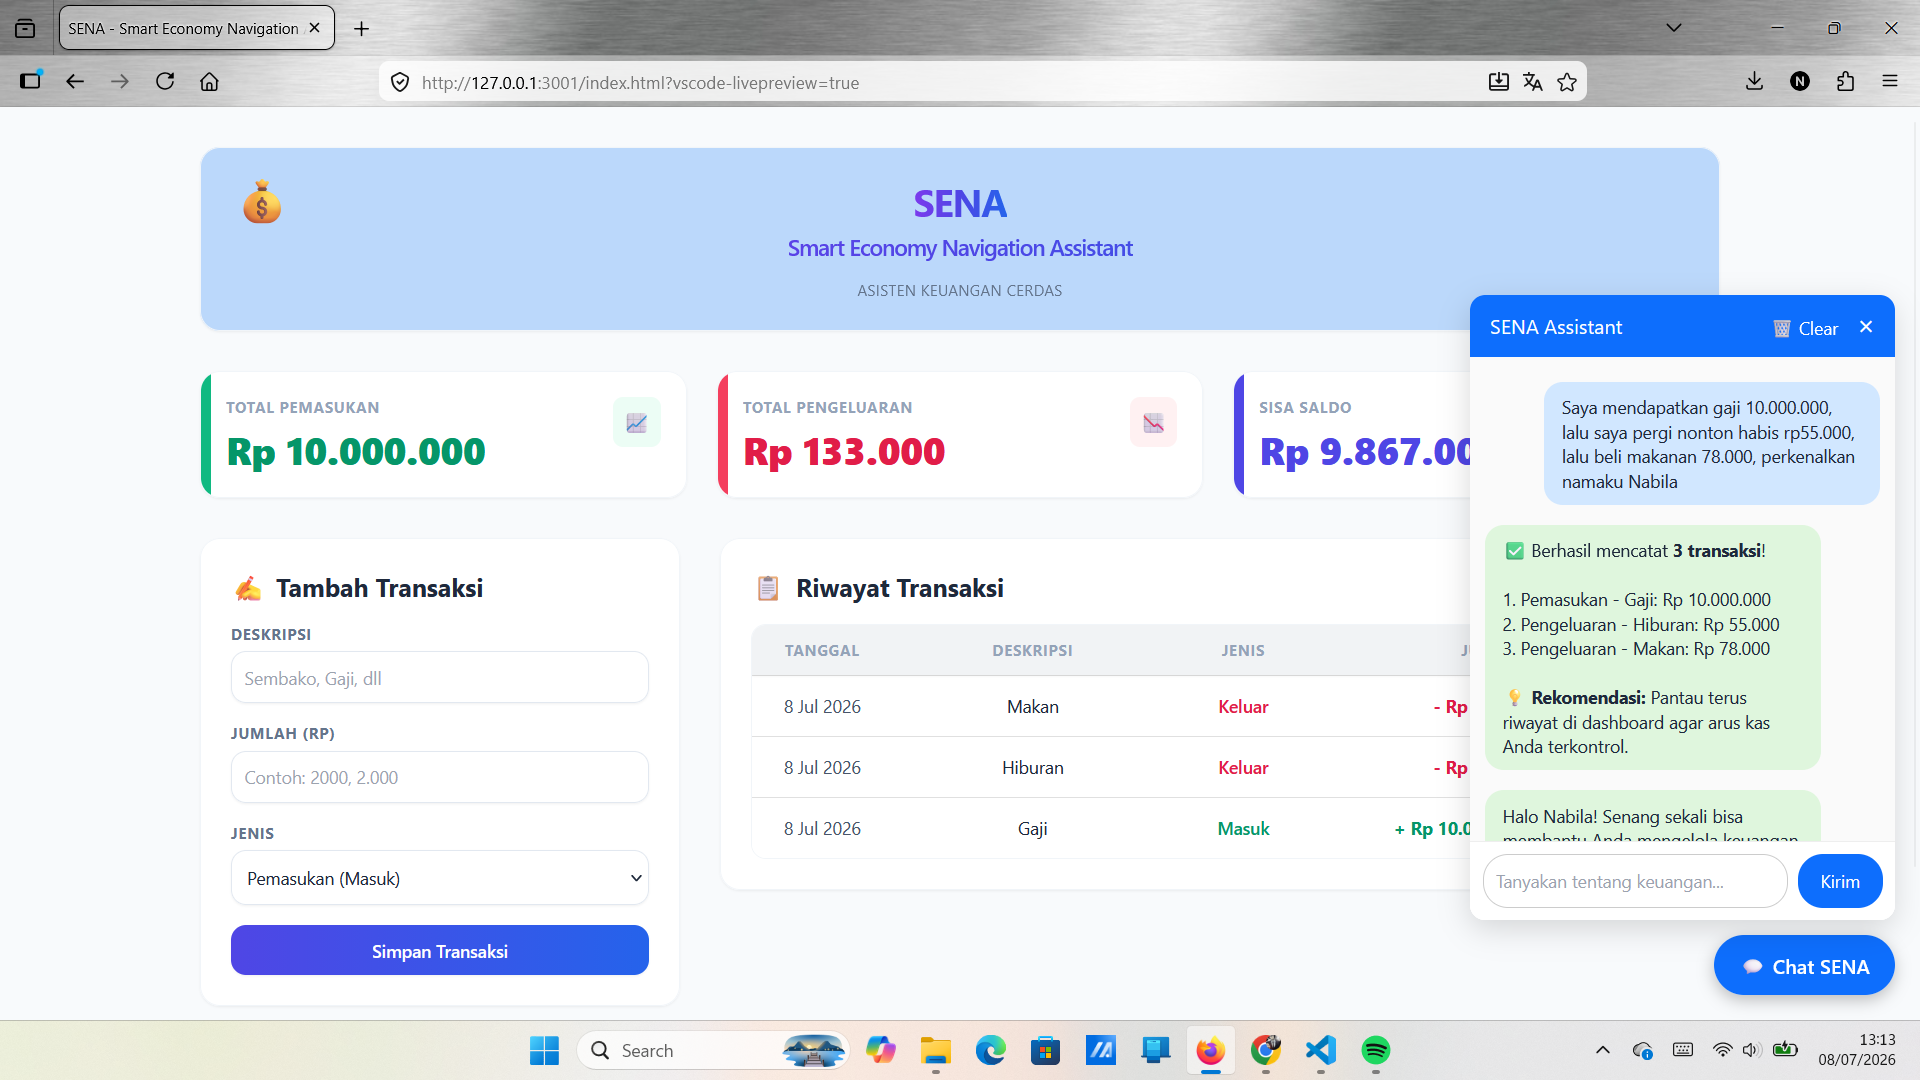
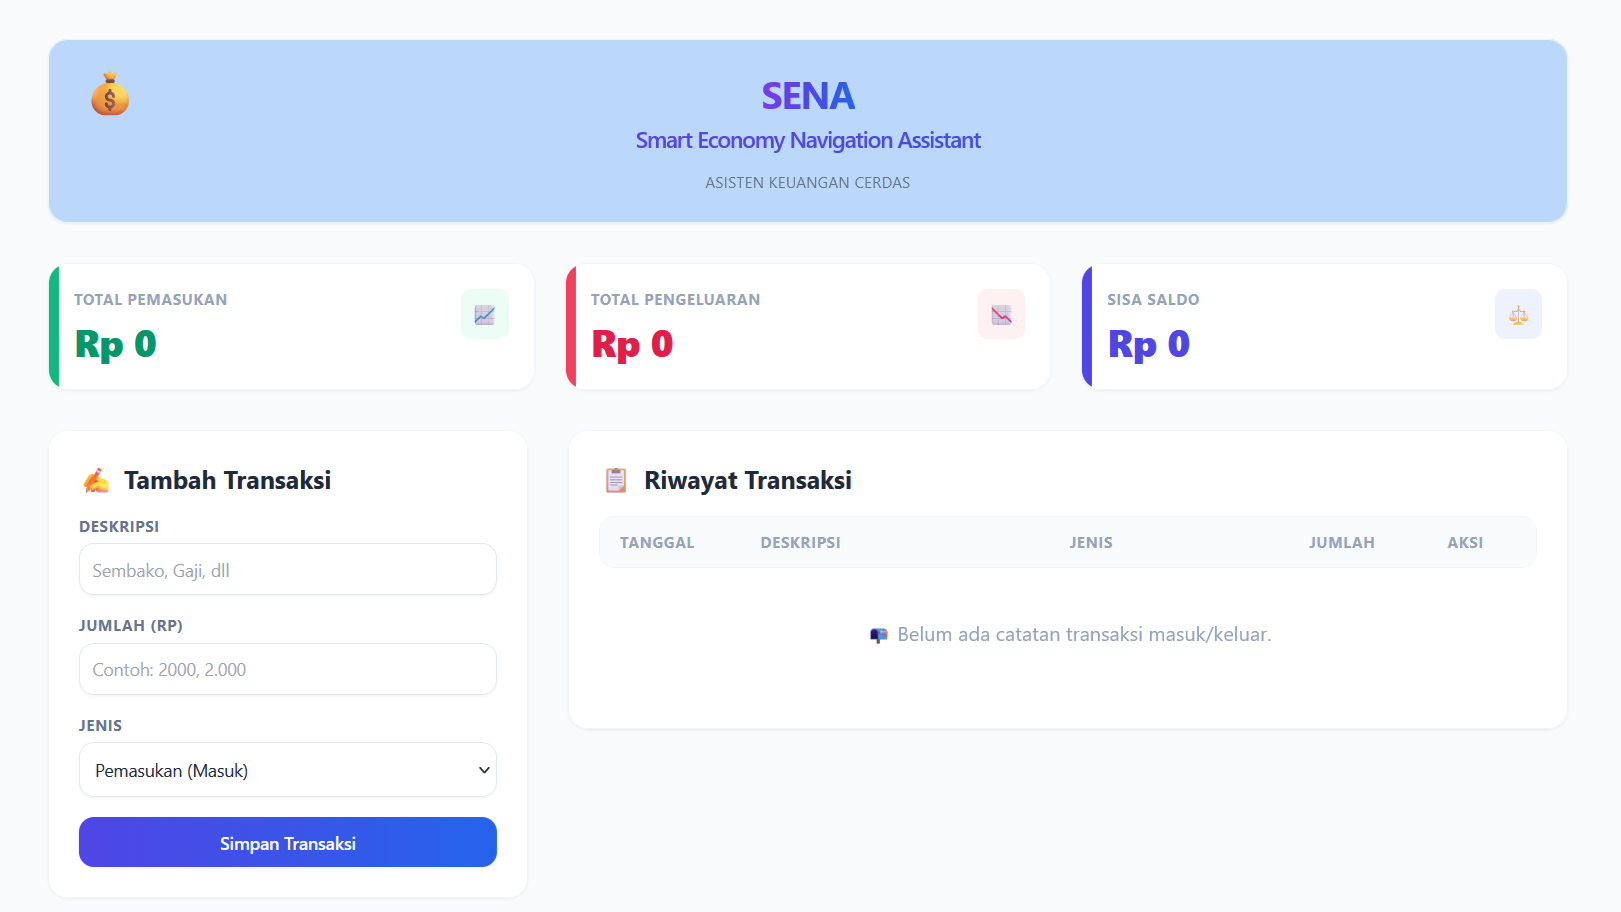
update SENA project with new design and features

diff --git a/public/sena/index.html b/public/sena/index.html
@@ -8,7 +8,7 @@
 </head>
 <body class="bg-slate-50 font-sans antialiased text-slate-800 flex flex-col min-h-screen">
 
-    <div class="max-w-7xl w-full mx-auto p-4 sm:p-6 lg:p-8 pb-16 flex-grow">
+    <div class="max-w-7xl w-full mx-auto p-4 sm:p-6 lg:p-8 pb-16 grow">
         
         <header class="relative mb-8 text-center bg-blue-400/40 backdrop-blur-md p-4 sm:p-6 rounded-2xl shadow-sm border border-slate-100 overflow-hidden">
             
@@ -18,11 +18,11 @@
             
             <h1 class="text-xl sm:text-2xl md:text-3xl font-extrabold tracking-tight flex flex-col items-center justify-center gap-1 w-full px-2">
                 
-                <span class="bg-gradient-to-r from-violet-600 via-indigo-600 to-blue-600 bg-clip-text text-transparent leading-tight font-bold">
+                <span class="bg-linear-to-r from-violet-600 via-indigo-600 to-blue-600 bg-clip-text text-transparent leading-tight font-bold">
                     SENA
                 </span>
                 
-                <span class="bg-gradient-to-r from-violet-600 via-indigo-600 to-blue-600 bg-clip-text text-transparent text-sm sm:text-base md:text-lg font-semibold leading-tight break-words text-center w-full">
+                <span class="bg-linear-to-r from-violet-600 via-indigo-600 to-blue-600 bg-clip-text text-transparent text-sm sm:text-base md:text-lg font-semibold leading-tight wrap-break-words text-center w-full">
                     Smart Economy Navigation Assistant
                 </span>
                 
@@ -87,7 +87,7 @@
                             <option value="pengeluaran">Pengeluaran (Keluar)</option>
                         </select>
                     </div>
-                    <button type="submit" class="w-full bg-gradient-to-r from-indigo-600 to-blue-600 text-white py-2.5 px-4 rounded-xl hover:from-indigo-700 hover:to-blue-700 font-semibold shadow-sm hover:shadow-md transition-all duration-150 mt-2 text-sm cursor-pointer">Simpan Transaksi</button>
+                    <button type="submit" class="w-full bg-linear-to-r from-indigo-600 to-blue-600 text-white py-2.5 px-4 rounded-xl hover:from-indigo-700 hover:to-blue-700 font-semibold shadow-sm hover:shadow-md transition-all duration-150 mt-2 text-sm cursor-pointer">Simpan Transaksi</button>
                 </form>
             </div>
 
